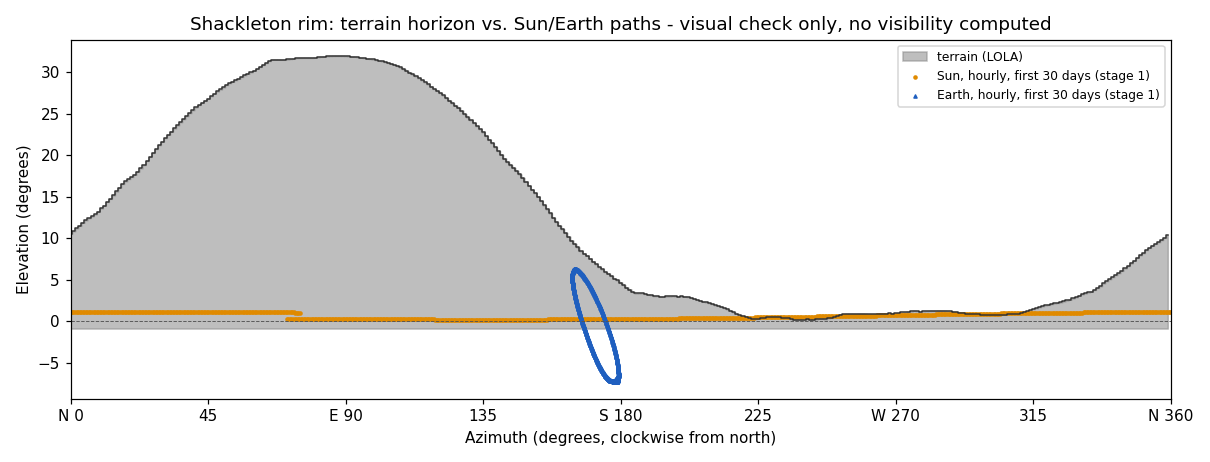
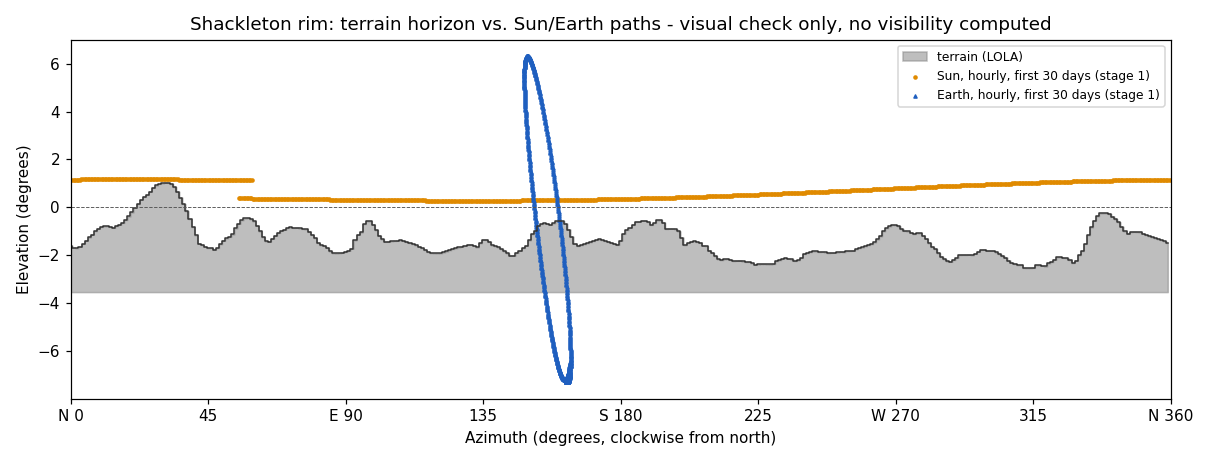
docs: approve stage 2, record D20 and rerun stages 1-2 for six sites

diff --git a/docs/ROTEIRO.md b/docs/ROTEIRO.md
@@ -4,7 +4,7 @@
 
 Legenda de status: `a fazer` · `em andamento` · `concluído` · `plano B` · `cortado`. Nas listas, `[~]` = item dispensado.
 
-Última atualização: 2026-11-14 — etapa 2 concluída, aguardando aprovação (decisões D16–D19).
+Última atualização: 2026-11-14 — etapa 2 aprovada; D20 (Shackleton rim na crista; seis locais).
 
 ## Pontos de controle
 
@@ -43,7 +43,7 @@ Legenda de status: `a fazer` · `em andamento` · `concluído` · `plano B` · `
 
 ### 2. Horizonte
 - Responsável:
-- Status: **concluído** (2026-11-14), branch `stage-2-horizon` — aguardando aprovação
+- Status: **concluído e aprovado** (2026-11-14), branch `stage-2-horizon` juntada à `main`
 - O que é: calcular o contorno de 360 graus de cada local a partir do relevo do LOLA.
 - Pasta: `pipeline/horizon/` → `data/horizon/` (relatório e figuras versionados)
 - Como rodar: `python -m pipeline.horizon.run_horizon` (ver `pipeline/horizon/README.md`)
@@ -54,9 +54,9 @@ Legenda de status: `a fazer` · `em andamento` · `concluído` · `plano B` · `
   - [x] Altura do observador tirada do DEM (D13) + mastro de 2 m (D18)
   - [x] Sanidade: contornos dentro de [−10°, +35°], não constantes, sem direções sem dado (`data/horizon/REPORT.md`)
   - [x] Verificação visual: figuras com o contorno e a trajetória de um mês do Sol e da Terra (`data/horizon/plots/`)
-  - [ ] Comparação qualitativa com Quickmap/Moon Trek — **não feita** (precisa de navegador; fica para o time, opcional)
+  - [~] Comparação qualitativa com Quickmap/Moon Trek — **dispensada** pelo time na aprovação da etapa 2 (2026-11-14)
 - **Plano B** (horizonte liso): não foi necessário.
-- **Atenção — Shackleton rim:** o ponto de referência (centro da região Site04, D12) fica na parede interna da cratera, em encosta de ~31°; horizonte de 0,1° a 31,9° (média 12,5°). O cálculo está correto para o ponto, mas o ponto não representa a crista. Opções em discussão: (a) manter e declarar; (b) usar o LM1 "Shackleton Rim B" da mesma tabela da NASA (−89,5244; 56,30993) — testado: encosta de ~12°, horizonte −1,4° a 14,2°; (c) derivar um ponto na crista dentro do recorte Site04 (ponto derivado por nós, não publicado).
+- **Shackleton rim (resolvido, D20):** o centro publicado do Site04 ficava na parede interna (31,4°). O local passou a usar um ponto derivado na crista (inclinação 3,6°, horizonte −2,5° a 1,0°); o centro publicado virou o sexto local, `shackleton-inner-wall`, para demonstrar a sensibilidade à posição.
 
 ### 3. Valor científico
 - Responsável:
@@ -125,3 +125,4 @@ Legenda de status: `a fazer` · `em andamento` · `concluído` · `plano B` · `
 | 2026-11-14 | 1 | Efemérides dos cinco locais (8.760 registros cada), todas as verificações OK; coordenadas do Data Book da NASA conferidas contra os GeoTIFFs do PGDA 78; decisões D12–D15 |
 | 2026-11-14 | 1 | Etapa aprovada; comparação com a interface web do Horizons dispensada; branch juntada à `main` |
 | 2026-11-14 | 2 | Horizonte dos cinco locais a partir do LDEM 20 m do PGDA 90 lido por partes; sanidade OK; Malapert com 13,9% das direções cortadas pela borda do DEM; ponto do Shackleton rim em encosta (pendência); decisões D16–D19 |
+| 2026-11-14 | 2 | Etapa aprovada; comparação com Quickmap/Moon Trek dispensada; D20: Shackleton rim em ponto derivado na crista, centro publicado mantido como `shackleton-inner-wall`; etapas 1 e 2 rodadas para os seis locais |

diff --git a/README.md b/README.md
@@ -55,19 +55,20 @@ Full list: [`docs/REFERENCIAS.md`](docs/REFERENCIAS.md).
 
 ## Candidate sites (fixed list)
 
-Shackleton rim · Connecting ridge · de Gerlache rim · Malapert massif · Haworth
+Shackleton rim · Connecting ridge · de Gerlache rim · Malapert massif · Haworth · plus *Shackleton inner wall* (sensitivity demo)
 
 These are **regional reference points**, not NASA-designated landing sites. Latitude/longitude in degrees, lunar mean-Earth frame (MOON_ME, DE421), east-positive longitude.
 
 | Site | Lat | Lon | Source |
 |---|---|---|---|
-| Shackleton rim | -89.7668 | -171.87 | NASA M2M-30044 Lunar Surface Data Book (2025), Table A2.1-1 (region centre) |
+| Shackleton rim | -89.780445 | -156.168582 | Point derived on the rim crest inside the NASA region Site04 (M2M-30044 Lunar Surface Data Book, 2025, Table A2.1-1; rule in docs/DECISOES.md D20) |
 | Connecting ridge | -89.468 | -137.4 (222.6° E) | NASA ACD-50044 Lunar Surface Data Book (2022), point CR1 |
 | de Gerlache rim | -88.6834 | -67.9321 | NASA M2M-30044 (2025), Table A2.1-1 ("de Gerlache Rim 1") |
 | Malapert massif | -85.9948 | -0.23578 | NASA M2M-30044 (2025), Table A2.1-1 |
 | Haworth | -86.7639 | -22.777 | NASA M2M-30044 (2025), Table A2.1-1 |
+| Shackleton inner wall (Site04 center) | -89.7668 | -171.87 | NASA M2M-30044 (2025), Table A2.1-1 — published region centre on the crater's inner wall, kept to show sensitivity to position |
 
-Region centres were independently cross-checked against the extents of the LOLA 5 m DEM tiles (PGDA product 78): agreement within 1.3 m.
+Published region centres were independently cross-checked against the extents of the LOLA 5 m DEM tiles (PGDA product 78): agreement within 1.3 m.
 
 ## Running locally
 
@@ -95,7 +96,7 @@ cd web
 - **Terrain resolution:** the horizon uses the LOLA 20 m south polar DEM (PGDA product 90) at 20 m up to 5 km from the site, and its 80 m and 320 m overviews up to 40 km and 200 km. Obstacles smaller than those pixels may be missed, and how the overviews were generated is not documented (distant peaks may be slightly lowered).
 - **Search radius and DEM edge:** 200 km. Where a ray leaves the DEM (a ±304 km square), terrain beyond is treated as unknown; this affects 13.9% of directions at Malapert massif.
 - **Observer:** DEM terrain height plus a 2 m mast (a team choice, not a NASA requirement). Heights are taken as metres above the 1737.4 km sphere, inferred from the datum declared in the DEM file.
-- **Shackleton rim reference point:** the NASA-published region centre lies on the crater's inner wall (~31° slope), so its horizon is very high; it does not represent the rim crest. Under team review.
+- **Shackleton rim reference point:** the NASA-published Site04 centre lies on the crater's inner wall (31° slope). The "Shackleton rim" site uses a point derived on the rim crest (3.6° slope, rule in docs/DECISOES.md D20); the published centre is kept as "Shackleton inner wall" to show how much the exact position matters.
 - **Closed list of sites:** only the five sites above.
 - **Date range:** January 1 to December 31, 2027 (UTC), one-hour steps. Launch-slip comparisons only work within this year.
 - **Observer height:** ephemerides use an observer at 0 km above the 1737.4 km reference sphere; the effect on Sun/Earth angles is negligible.

diff --git a/docs/DADOS.md b/docs/DADOS.md
@@ -17,21 +17,25 @@ Pontos de **referência regionais**, não locais de pouso designados pela NASA. 
 
 | id | Nome | Lat (°) | Lon (°) | Tipo de fonte | Fonte |
 |----|------|---------|---------|---------------|-------|
-| `shackleton-rim` | Shackleton rim | -89.7668 | -171.87 | ponto publicado (centro da região Site04) | [1] Tab. A2.1-1, p. 75 |
+| `shackleton-rim` | Shackleton rim | -89.780445 | -156.168582 | **ponto derivado** na crista, dentro da região Site04 (D20) | regra em D20 sobre [1] Tab. A2.1-1 e PGDA 78/90 |
 | `connecting-ridge` | Connecting ridge | -89.468 | -137.4 (= 222.6° E) | ponto publicado (CR1/C1) | [2] p. 26 (figura) e p. 32 (seção 7.3.3) |
 | `de-gerlache-rim` | de Gerlache rim | -88.6834 | -67.9321 | ponto publicado (centro da região Site11, "de Gerlache Rim 1") | [1] Tab. A2.1-1, p. 75 |
 | `malapert-massif` | Malapert massif | -85.9948 | -0.23578 | ponto publicado (centro da região Site23) | [1] Tab. A2.1-1, p. 75 |
 | `haworth` | Haworth | -86.7639 | -22.777 | ponto publicado (centro da região Haworth) | [1] Tab. A2.1-1, p. 75 |
+| `shackleton-inner-wall` | Shackleton inner wall (Site04 center) | -89.7668 | -171.87 | ponto publicado (centro da região Site04); **demonstração de sensibilidade** | [1] Tab. A2.1-1, p. 75 |
 
 Fontes:
 1. NASA **M2M-30044 Moon to Mars Lunar Surface Data Book**, Baseline, 2025-03-18 (NASA/TP-20250002845), Apêndice A2.1, "Table A2.1-1 Lunar South Pole Features", página 75 de 93. https://ntrs.nasa.gov/api/citations/20250002845/downloads/M2M-30044%20Lunar%20Surface%20Data%20Book%20Baseline_Final.pdf — o texto da tabela diz: "Coordinates have been generated from the DEM files on the PGDA website (South Pole LOLA DEM), so the center points of the original polygons are accurate to 5 to 10 meters." A mesma tabela está na ACD-50044 Rev A (2023), p. 57.
 2. NASA **ACD-50044 Lunar Surface Data Book**, Initial Release, 2022-10-06. https://ntrs.nasa.gov/api/citations/20220015275/downloads/ACD-50044%20Lunar%20Surface%20Data%20Book_100622.pdf — "Traverse between two points C1 (89.468° S, 222.6° E) and C2 (89.500° S, 222.1° E) on the Shackleton - de Gerlache connecting ridge" e "a landing at the CR1 (89.468° S, 222.6° E) location". Repetido na M2M-30044, figura 7.3.2.7-1, p. 54.
 
+Inclinação local no DEM de 20 m (D20): Shackleton rim 3,6°, Connecting ridge 0,7°, de Gerlache rim 1,3°, Malapert massif 4,3°, Haworth 4,5°, Shackleton inner wall 31,4°.
+
 Conferência independente (`python -m pipeline.sites.verify_site_points`): o centro de cada GeoTIFF do PGDA produto 78 (`<tile>_final_adj_5mpp_surf.tif`; só o cabeçalho é lido, por requisição HTTP com `Range`), convertido de estereográfica polar sul (esfera de 1.737.400 m, origem -90°, meridiano central 0°, escala 1, declarados nas GeoKeys do arquivo) para latitude/longitude:
 
 | Local | Recorte | Distância ao ponto publicado |
 |---|---|---|
-| Shackleton rim | Site04 | 0,3 m |
+| Shackleton inner wall (centro publicado) | Site04 | 0,3 m |
+| Shackleton rim (derivado, D20) | Site04 | 1919,6 m do centro (esperado: ponto na crista) |
 | Connecting ridge | Site01 | 148,9 m (CR1 não é o centro do recorte; o centro publicado do Site01 é -89.4632, -137.49) |
 | de Gerlache rim | Site11 | 0,6 m |
 | Malapert massif | Site23 | 0,5 m |

diff --git a/data/horizon/REPORT.md b/data/horizon/REPORT.md
@@ -12,13 +12,14 @@ Generated by `python -m pipeline.horizon.run_horizon`. Do not edit by hand.
 
 ## Contour (degrees)
 
-| Site | Terrain h (m) | Min | Max | Mean | Highest obstacle: azimuth | distance (km) | Sanity |
-|---|---|---|---|---|---|---|---|
-| shackleton-rim | 770.9 | 0.149 | 31.944 | 12.530 | 87 | 0.10 | OK |
-| connecting-ridge | 1942.5 | -2.035 | 2.557 | 0.473 | 39 | 0.10 | OK |
-| de-gerlache-rim | 1793.6 | -2.847 | 2.850 | -0.142 | 331 | 0.08 | OK |
-| malapert-massif | 4784.2 | -4.402 | 5.118 | 1.544 | 60 | 0.34 | OK |
-| haworth | 1628.1 | -0.012 | 5.927 | 3.261 | 2 | 10.04 | OK |
+| Site | Terrain h (m) | Slope (deg) | Min | Max | Mean | Highest obstacle: azimuth | distance (km) | Sanity |
+|---|---|---|---|---|---|---|---|---|
+| shackleton-rim | 1738.4 | 3.6 | -2.537 | 1.032 | -1.362 | 31 | 9.88 | OK |
+| connecting-ridge | 1942.5 | 0.7 | -2.035 | 2.557 | 0.473 | 39 | 0.10 | OK |
+| de-gerlache-rim | 1793.6 | 1.3 | -2.847 | 2.850 | -0.142 | 331 | 0.08 | OK |
+| malapert-massif | 4784.2 | 4.3 | -4.402 | 5.118 | 1.544 | 60 | 0.34 | OK |
+| haworth | 1628.1 | 4.5 | -0.012 | 5.927 | 3.261 | 2 | 10.04 | OK |
+| shackleton-inner-wall | 770.9 | 31.4 | 0.149 | 31.944 | 12.530 | 87 | 0.10 | OK |
 
 ## Smooth-sphere horizon dip (for comparison)
 
@@ -26,11 +27,12 @@ Dip = -acos(R / (R + h)). "Observer height" uses h = terrain height above the sp
 
 | Site | Observer height above sphere (m) | Dip, observer height (deg) | Dip, mast only (deg) | Min of computed contour (deg) |
 |---|---|---|---|---|
-| shackleton-rim | 772.9 | -1.709 | -0.0869 | 0.149 |
+| shackleton-rim | 1740.4 | -2.564 | -0.0869 | -2.537 |
 | connecting-ridge | 1944.5 | -2.710 | -0.0869 | -2.035 |
 | de-gerlache-rim | 1795.6 | -2.604 | -0.0869 | -2.847 |
 | malapert-massif | 4786.2 | -4.248 | -0.0869 | -4.402 |
 | haworth | 1630.1 | -2.481 | -0.0869 | -0.012 |
+| shackleton-inner-wall | 772.9 | -1.709 | -0.0869 | 0.149 |
 
 ## DEM edge
 
@@ -43,6 +45,7 @@ Fraction of the 360 whole-degree bins in which at least one ray left the DEM bef
 | de-gerlache-rim | 0 | 0.0% | - | - |
 | malapert-massif | 50 | 13.9% | 181.4 | 199.0 |
 | haworth | 0 | 0.0% | - | - |
+| shackleton-inner-wall | 0 | 0.0% | - | - |
 
 Per-degree cut distances are in `data/horizon/<id>.json` (`cut_distance_km`).
 

diff --git a/data/ephemeris/REPORT.md b/data/ephemeris/REPORT.md
@@ -18,16 +18,18 @@ Generated by `python -m pipeline.ephemeris.run_ephemeris`. Do not edit by hand.
 | de-gerlache-rim | 8760 | 8760 | 0 | 0 | 0 | OK |
 | malapert-massif | 8760 | 8760 | 0 | 0 | 0 | OK |
 | haworth | 8760 | 8760 | 0 | 0 | 0 | OK |
+| shackleton-inner-wall | 8760 | 8760 | 0 | 0 | 0 | OK |
 
 ## Elevation ranges (degrees, ideal horizon)
 
 | Site | Lat | Sun min | Sun max | Sun limit | Sun check | Earth min | Earth max |
 |---|---|---|---|---|---|---|---|
-| shackleton-rim | -89.7668 | -1.759 | 1.758 | 1.833 | OK | -7.328 | 6.348 |
+| shackleton-rim | -89.7804 | -1.747 | 1.738 | 1.820 | OK | -7.305 | 6.385 |
 | connecting-ridge | -89.4680 | -2.057 | 2.044 | 2.132 | OK | -7.530 | 6.231 |
 | de-gerlache-rim | -88.6834 | -2.828 | 2.823 | 2.917 | OK | -6.766 | 7.221 |
 | malapert-massif | -85.9948 | -5.529 | 5.519 | 5.605 | OK | -3.129 | 10.548 |
 | haworth | -86.7639 | -4.753 | 4.744 | 4.836 | OK | -4.303 | 9.695 |
+| shackleton-inner-wall | -89.7668 | -1.759 | 1.758 | 1.833 | OK | -7.328 | 6.348 |
 
 ## Periods (days)
 
@@ -38,6 +40,7 @@ Generated by `python -m pipeline.ephemeris.run_ephemeris`. Do not edit by hand.
 | de-gerlache-rim | 29.53 | OK | 27.29 | OK |
 | malapert-massif | 29.53 | OK | 27.29 | OK |
 | haworth | 29.53 | OK | 27.29 | OK |
+| shackleton-inner-wall | 29.53 | OK | 27.29 | OK |
 
 ## Reference frame
 
@@ -48,6 +51,7 @@ Generated by `python -m pipeline.ephemeris.run_ephemeris`. Do not edit by hand.
 | de-gerlache-rim | `MEAN_ME (high precision) {East-longitude positive}` |
 | malapert-massif | `MEAN_ME (high precision) {East-longitude positive}` |
 | haworth | `MEAN_ME (high precision) {East-longitude positive}` |
+| shackleton-inner-wall | `MEAN_ME (high precision) {East-longitude positive}` |
 
 Horizons interprets surface coordinates on the Moon in the mean-Earth/polar-axis frame of DE421 (manual: "mean Earth of DE421 for the Moon"). The LOLA products (PGDA 78 README) use the "MOON_ME reference frame of ephemeris DE421". The frames coincide according to both sources' documentation.
 

diff --git a/pipeline/sites/README.md b/pipeline/sites/README.md
@@ -9,6 +9,8 @@ Lista de locais em `pipeline/sites.json` e código para lê-la e conferi-la.
 | `polar_stereo.py` | Projeção estereográfica polar sul em esfera, ida e volta (funções puras, testadas). |
 | `geotiff_header.py` | Lê o georreferenciamento de um GeoTIFF só pelos primeiros 64 KB (requisição HTTP com `Range`). |
 | `verify_site_points.py` | Compara cada coordenada com o centro do recorte do PGDA produto 78 correspondente. |
+| `crest_point.py` | Regra pura do ponto na crista (D20) e inclinação local. |
+| `derive_crest_point.py` | Aplica a regra ao Site04 e imprime a inclinação de cada local (`python -m pipeline.sites.derive_crest_point`). |
 
 ```bash
 python -m pipeline.sites.verify_site_points
@@ -16,7 +18,7 @@ python -m pipeline.sites.verify_site_points
 
 ## Convenções
 
-- Pontos de **referência regionais**, não locais de pouso designados pela NASA.
+- Pontos de **referência regionais**, não locais de pouso designados pela NASA. Seis locais: os cinco do desafio e `shackleton-inner-wall` (demonstração de sensibilidade, D20).
 - Latitude e longitude em graus, referencial MOON_ME (mean Earth/polar axis do DE421), longitude **leste positiva em [-180, 180)**. O Horizons recebe a longitude em [0, 360).
 - `source_type`: `published_point` (ponto publicado em documento da NASA), `derived_tile_center` (centro de recorte derivado do GeoTIFF), `unverified`.
 - Altitude `alt_km = 0` sobre a esfera de 1737,4 km na etapa 1 (ver `docs/DADOS.md`).
